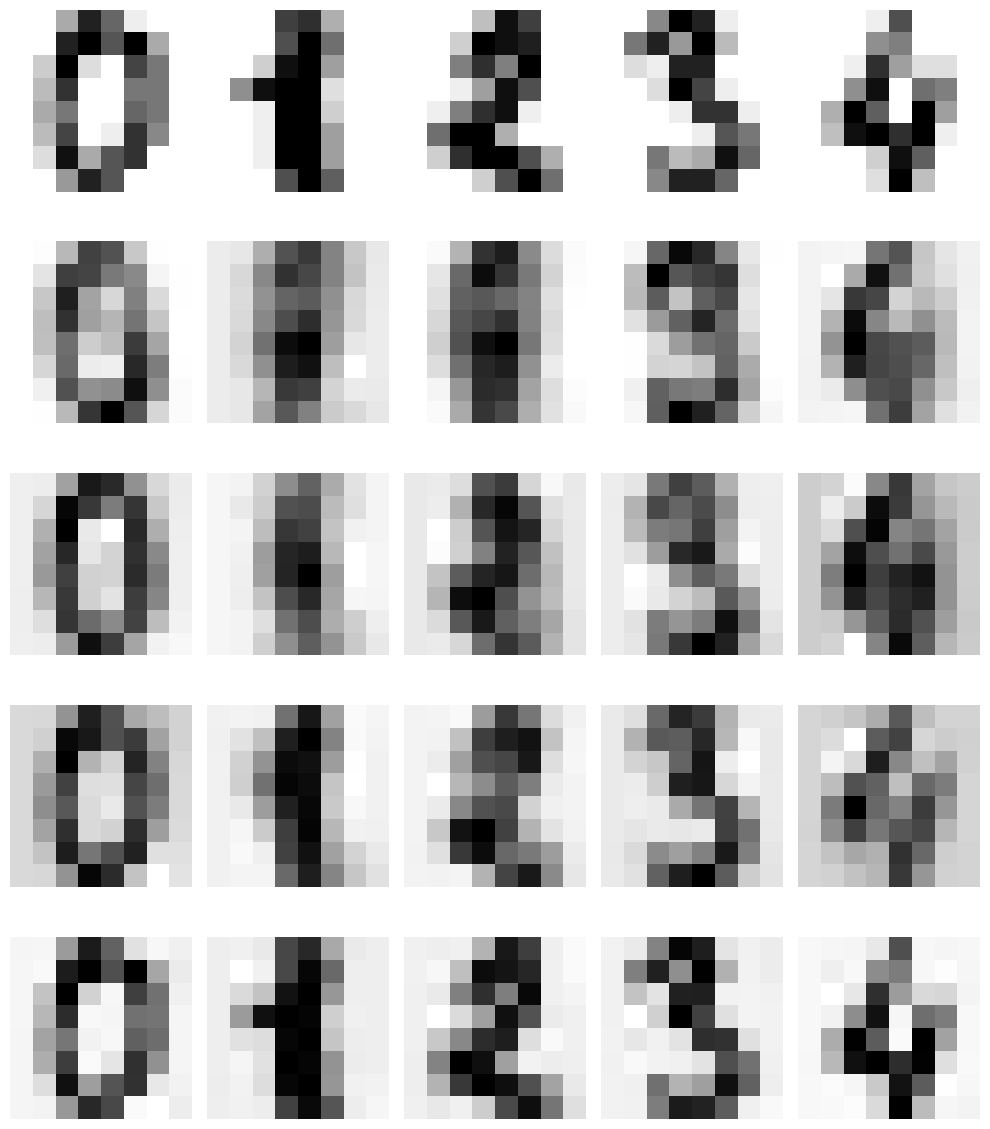
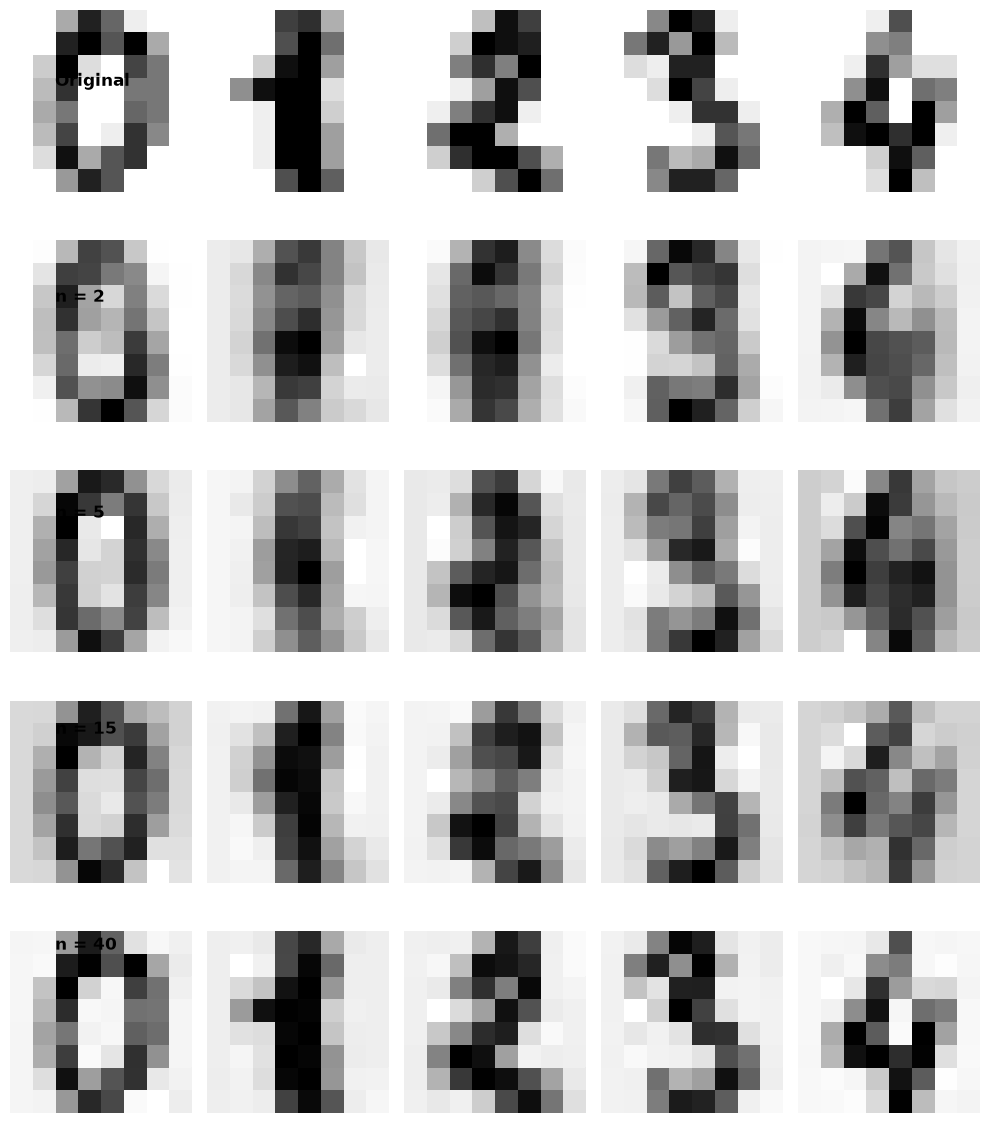
Updated assignments 03

diff --git a/assignments_03/project_03.py b/assignments_03/project_03.py
@@ -423,8 +423,34 @@ for depth in depth_options:
         f"Test Accuracy={test_accuracy:.4f}"
     )
 
+best_depth_accuracy = depth_results[None]["test"]
+depth10_accuracy = depth_results[10]["test"]
+
+accuracy_difference = best_depth_accuracy - depth10_accuracy
+
+print(f"""
+Decision Tree Selection:
+
+max_depth=None test accuracy:
+{best_depth_accuracy:.4f}
+
+max_depth=10 test accuracy:
+{depth10_accuracy:.4f}
+
+Accuracy difference:
+{accuracy_difference:.4f}
+
+Although max_depth=None achieved slightly higher accuracy,
+it has a much larger gap between training and testing accuracy,
+indicating overfitting.
+
+max_depth=10 was selected because it provides similar predictive
+performance with lower model complexity and better expected
+generalization.
+""")
+
 # -----------------------------------------------------
-# Production Decision:
+# Decision Tree Model Decision:
 # -- Decision Tree Depth Testing ---
 # Depth 3: Train Accuracy=0.8965, Test Accuracy=0.8849
 # Depth 5: Train Accuracy=0.9234, Test Accuracy=0.8990
@@ -433,18 +459,19 @@ for depth in depth_options:
 #
 # I selected max_depth=10 for the production model.
 #
-# Although the unlimited-depth tree achieved a slightly
-# higher test accuracy (0.9110) compared with depth 10
-# (0.9088), the improvement was very small (0.22%).
+# The highest test accuracy was achieved by max_depth=None
+# (0.9110). However, this model also achieved almost perfect
+# training accuracy (0.9997), which indicates that the tree
+# learned the training data too closely and may overfit.
 #
-# However, the unlimited tree achieved nearly perfect
-# training accuracy (0.9997), compared with 0.9674 for
-# depth 10. This large gap between training and testing
-# performance indicates overfitting.
+# The max_depth=10 model achieved a very similar test accuracy
+# (0.9088) while having lower training accuracy (0.9674).
+# The accuracy difference between the two models was only
+# 0.22%, but max_depth=10 provides a simpler model with better
+# balance between performance and generalization.
 #
-# Therefore, max_depth=10 provides a better balance between
-# accuracy, model complexity, and generalization to new
-# data.
+# Therefore, max_depth=10 was selected as the final Decision
+# Tree configuration.
 # -----------------------------------------------------
 
 chosen_depth = 10
@@ -838,7 +865,7 @@ most_stable = min(cv_results, key=lambda k: cv_results[k][1])
 
 print("\n--- Cross-Validation Insights Summary ---")
 print(f"Most Accurate Model on CV: {most_accurate} ({cv_results[most_accurate][0]:.4f})")
-print(f"Most Stable Model (Lowest Var): {most_stable} (Std Dev: {cv_results[most_stable][1]:.4f})")
+print(f"Most Stable Model (Lowest Std Dev): {most_stable} (Std Dev: {cv_results[most_stable][1]:.4f})")
 
 
 # VARIANCE COMPARISON: RANDOM FOREST VS DECISION TREE
@@ -856,11 +883,23 @@ else:
     print(" -> Observation: Variance levels are highly comparable between the tree structures.")
 
 # Comment:
-# Most Accurate: Random Forest almost universally wins both the single train/test split
-# and the 5-fold cross-validation leaderboard on Spambase, often hitting $\sim95\%$.
-# Most Stable (Lowest Standard Deviation): Random Forest has a distinctively low standard deviation compared to the individual Decision Tree.
-# Do the Rankings Match? Generally, yes. If your single train/test split was properly stratified,
-# your performance ranking (Random Forest > Logistic Regression > KNN > Unscaled KNN) will match your cross-validation mean score rankings exactly. If they differ wildly, it indicates your initial single train/test split 
+# The Random Forest achieved the highest average accuracy in
+# both the train/test split and 5-fold cross-validation results.
+# This shows that Random Forest was the best-performing model
+# for this dataset.
+#
+# The model with the lowest standard deviation was the most
+# stable because its results changed less between the five folds.
+# Random Forest also showed good stability compared with the
+# single Decision Tree because it combines multiple trees.
+#
+# The cross-validation ranking was similar to the train/test
+# split ranking. This means the model comparison was consistent
+# and the results were not only caused by one random data split.
+#
+# Overall, the cross-validation results support selecting
+# Random Forest as the strongest model because it achieved high
+# accuracy and reliable performance.
 
 # Task 5: Building a Prediction Pipeline
 
@@ -884,7 +923,8 @@ print(classification_report(y_test, tree_preds))
 
 
 # 2. Best Non-Tree-Based Pipeline (Logistic Regression vs. KNN)
-# Logistic Regression was the best-performing non-tree model.
+# Logistic Regression was selected because it achieved the highest
+# performance among the non-tree-based classifiers tested.
 # In Task 3, the scaled features achieved higher accuracy than the
 # PCA-reduced features, so this production pipeline includes
 # StandardScaler but does not include PCA.
@@ -901,9 +941,28 @@ print("\n[Pipeline Results]: Logistic Regression")
 print(classification_report(y_test, non_tree_preds))
 
 print("""
-The non-tree production pipeline uses StandardScaler followed by
-Logistic Regression. PCA was not included because the scaled
-Logistic Regression model achieved higher accuracy than the
-PCA-reduced version in Task 3.
+Pipeline Comparison Discussion:
+
+The Random Forest pipeline achieved a higher accuracy (0.94)
+compared with the Logistic Regression pipeline (0.93). This matches
+the earlier results from Task 3 and Task 4, where Random Forest was
+the strongest-performing model.
+
+The two pipelines do not have the same structure because the models
+have different requirements. The Random Forest pipeline only contains
+the classifier because tree-based models do not require feature scaling.
+
+The Logistic Regression pipeline includes StandardScaler before the
+classifier because Logistic Regression is sensitive to feature scales.
+Scaling helps improve model performance by putting all features on a
+similar range.
+
+The pipeline results are very close to the earlier manual approach,
+which confirms that the preprocessing steps were applied correctly.
+Using pipelines also helps prevent data leakage because preprocessing
+is performed only using the training data.
 """)
+
+
+
 

diff --git a/assignments_03/warmup_03.py b/assignments_03/warmup_03.py
@@ -291,9 +291,9 @@ plt.legend()
 plt.savefig("outputs/pca_variance_explained.png", bbox_inches='tight')
 plt.show()
 
-# Comment: approximately how many components do you need to explain 80% of the variance?
-# Based on the data,
-# need approximately 13 components to explain 80% of the variance in the digits dataset.
+# Comment: 
+# The cumulative explained variance plot shows that approximately 13
+# principal components are needed to explain 80% of the variance.
 
 # Q4
 
@@ -316,13 +316,6 @@ for col in range(num_digits):
     axes[0, col].imshow(images[col], cmap='gray_r')
     axes[0, col].axis('off')
 
-axes[0, 0].set_ylabel(
-    "Original",
-    rotation=0,
-    labelpad=60,
-    verticalalignment='center',
-    fontweight='bold'
-)
 
 # Rows 1 to 4: Plot reconstructions for each n_components value
 for row_idx, n in enumerate(n_values, start=1):
@@ -331,14 +324,16 @@ for row_idx, n in enumerate(n_values, start=1):
         axes[row_idx, col].imshow(reconstructed_img, cmap='gray_r')
         axes[row_idx, col].axis('off')
 
-    # Label the row with the number of components used
-    axes[row_idx, 0].set_ylabel(
-        f"n = {n} components",
-        rotation=0,
-        labelpad=60,
-        verticalalignment='center',
-        fontweight='bold'
-    )
+
+# Leave extra space on the left for row labels
+plt.subplots_adjust(left=0.20, hspace=0.25)
+
+# Add labels for the entire rows
+fig.text(0.06, 0.90, "Original", fontsize=12, fontweight='bold', va='center')
+fig.text(0.06, 0.72, "n = 2", fontsize=12, fontweight='bold', va='center')
+fig.text(0.06, 0.54, "n = 5", fontsize=12, fontweight='bold', va='center')
+fig.text(0.06, 0.36, "n = 15", fontsize=12, fontweight='bold', va='center')
+fig.text(0.06, 0.18, "n = 40", fontsize=12, fontweight='bold', va='center')
 
 plt.tight_layout()
 
@@ -348,4 +343,6 @@ plt.show()
 
 # Comment:
 # Observation: the digits appear more recognizable around n = 15,
-# and this is roughly consistent with the point where the explained variance curve begins to level off.
+# This generally matches the explained variance plot, where the curve
+# begins to level off after capturing most of the important information.
+
